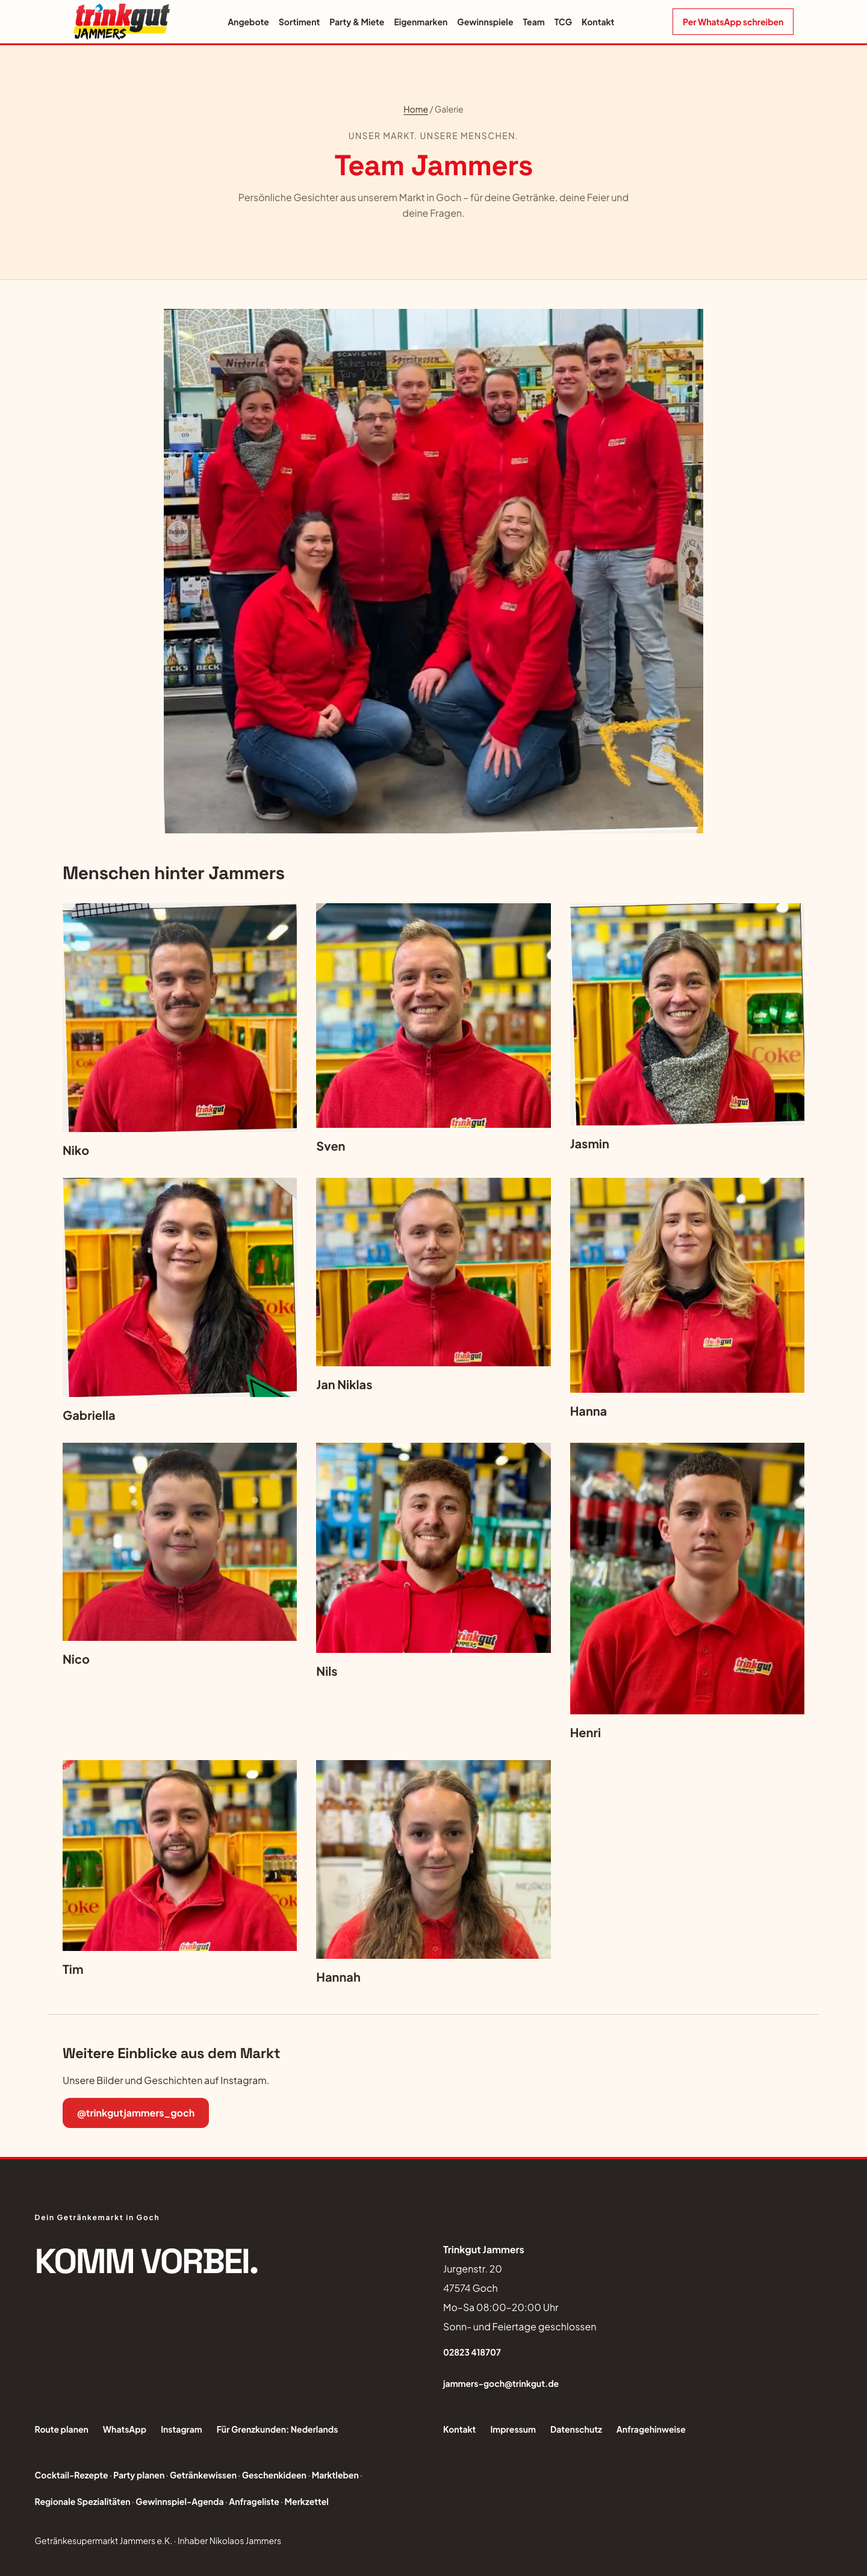
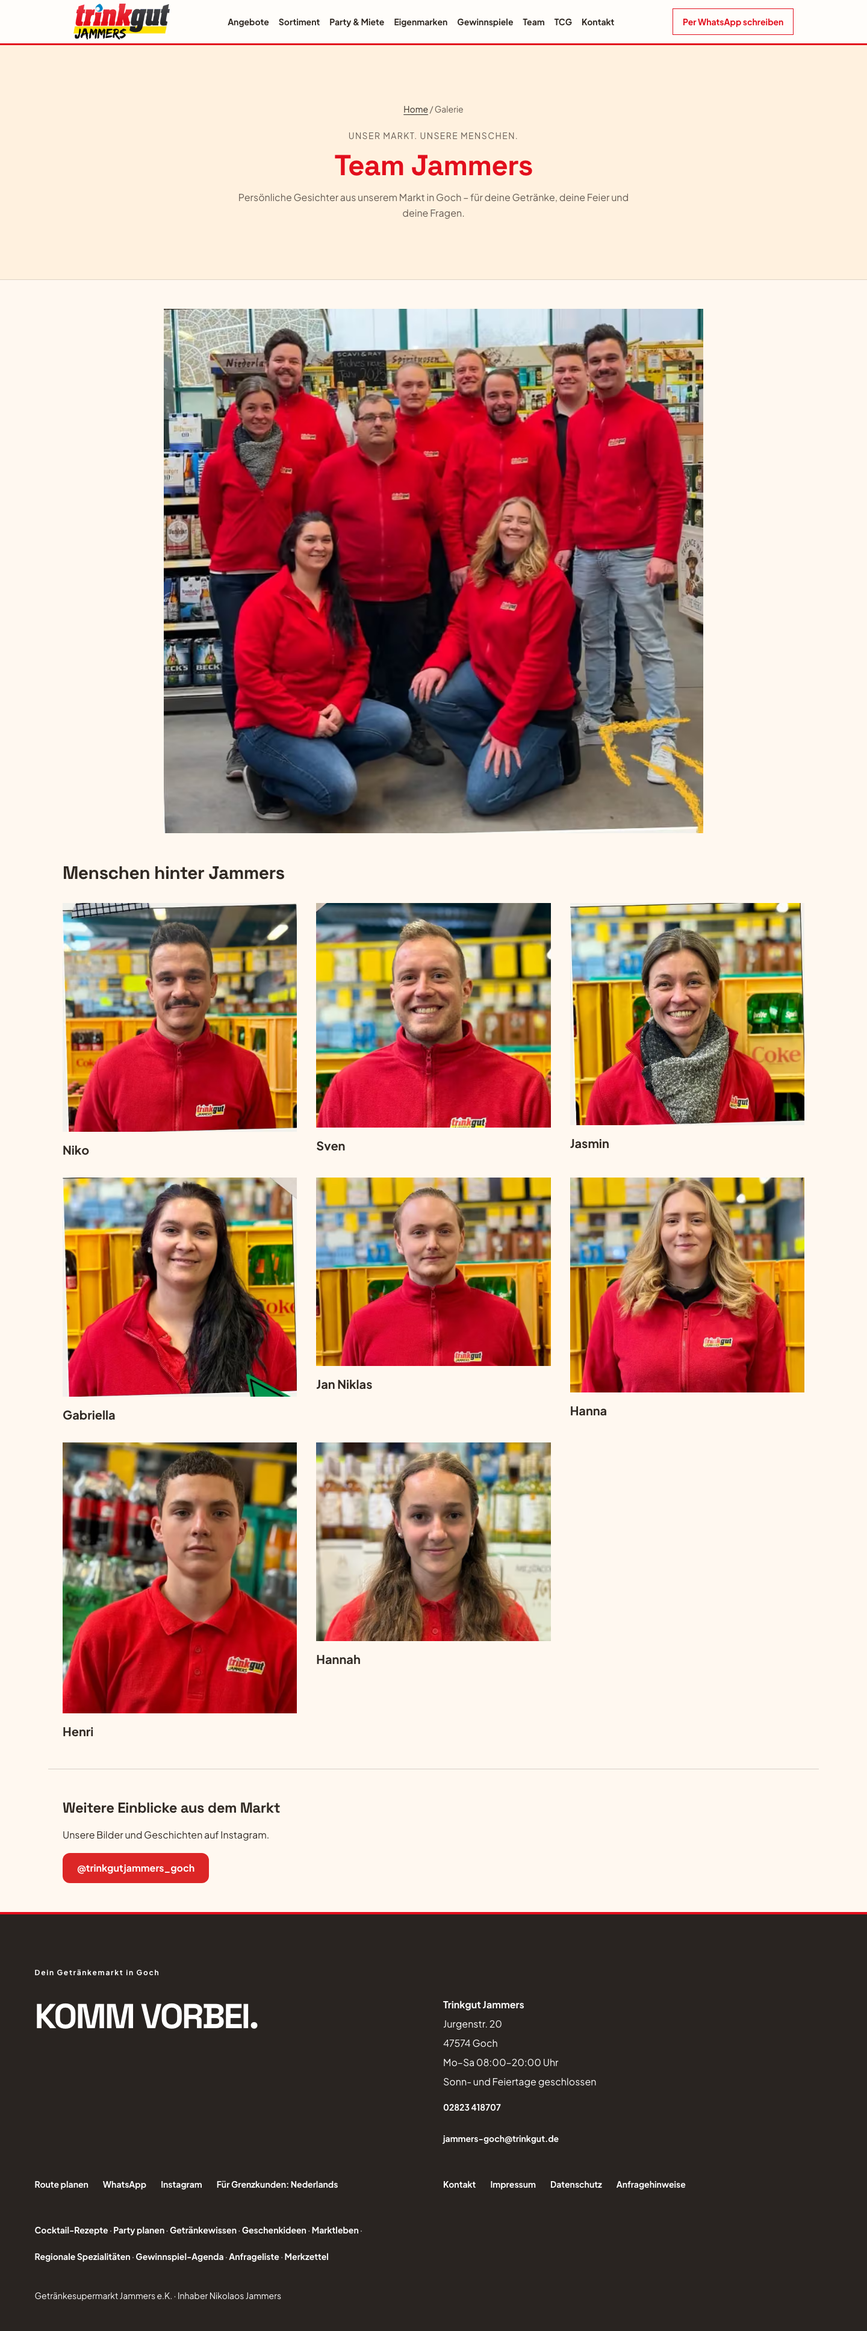
Remove departed employee profiles while keeping group photo

diff --git a/e2e/public-subpage-visual.spec.ts b/e2e/public-subpage-visual.spec.ts
@@ -80,7 +80,7 @@ async function expectNaturalEditorialImages(page: Page, path: string): Promise<v
     ? page.locator("#menschen figure img, #eigenmarken figure img")
     : path === "/galerie" ? page.locator("main figure img") : null;
   if (!images) return;
-  await expect(images).toHaveCount(path === "/" ? 15 : 12);
+  await expect(images).toHaveCount(path === "/" ? 12 : 9);
   for (const image of await images.all()) {
     const ratios = await image.evaluate((element: HTMLImageElement) => ({
       natural: element.naturalWidth / element.naturalHeight,
@@ -100,15 +100,15 @@ async function expectNaturalEditorialImages(page: Page, path: string): Promise<v
   expect(ratios.displayed).toBeCloseTo(900 / 875, 2);
 
   const team = page.locator(path === "/" ? "#menschen" : 'section[aria-labelledby="team-gallery-title"]');
-  for (const name of ["Niko", "Sven", "Jasmin", "Gabriella", "Jan Niklas", "Hanna", "Nico", "Nils", "Tim", "Henri", "Hannah"]) {
+  for (const name of ["Niko", "Sven", "Jasmin", "Gabriella", "Jan Niklas", "Hanna", "Henri", "Hannah"]) {
     const alt = name === "Niko" ? "Nikolaos Jammers im Markt" : `${name} von Trinkgut Jammers`;
     await expect(team.getByRole("img", { name: alt, exact: true })).toHaveCount(1);
     await expect(path === "/"
       ? team.getByText(name, { exact: true })
       : team.getByRole("heading", { name, exact: true })).toHaveCount(1);
   }
-  await expect(team.getByText(/\b(?:Harpe|Justin)\b/i)).toHaveCount(0);
-  await expect(team.getByRole("img", { name: /\b(?:Harpe|Justin)\b/i })).toHaveCount(0);
+  await expect(team.getByText(/\b(?:Harpe|Justin|Nils|Nico|Tim)\b/i)).toHaveCount(0);
+  await expect(team.getByRole("img", { name: /\b(?:Harpe|Justin|Nils|Nico|Tim)\b/i })).toHaveCount(0);
   for (const [name, width, height] of [["Henri", 570, 660], ["Hannah", 720, 610]] as const) {
     const portrait = team.getByRole("img", { name: `${name} von Trinkgut Jammers`, exact: true });
     await expect(portrait).toHaveAttribute("width", String(width));

diff --git a/e2e/team-names-and-planning.spec.ts b/e2e/team-names-and-planning.spec.ts
@@ -1,6 +1,13 @@
 import { test, expect } from "./test-fixtures";
+import type { Page } from "@playwright/test";
 
-const names = ["Niko", "Sven", "Jasmin", "Gabriella", "Jan Niklas", "Hanna", "Nico", "Nils", "Tim", "Henri", "Hannah"];
+const names = ["Niko", "Sven", "Jasmin", "Gabriella", "Jan Niklas", "Hanna", "Henri", "Hannah"];
+
+async function expectNoDepartedProfiles(page: Page) {
+  await expect(page.locator("main").getByText(/\b(?:Nils|Nico|Tim)\b/)).toHaveCount(0);
+  await expect(page.getByRole("img", { name: /\b(?:Nils|Nico|Tim)\b/ })).toHaveCount(0);
+  await expect(page.locator('main img[src*="team-nils"], main img[src*="team-nico"], main img[src*="team-tim"]')).toHaveCount(0);
+}
 
 for (const viewport of [{ width: 1440, height: 1000 }, { width: 390, height: 844 }]) {
   test(`portrait captions contain names only at ${viewport.width}px`, async ({ page }) => {
@@ -8,14 +15,15 @@ for (const viewport of [{ width: 1440, height: 1000 }, { width: 390, height: 844
     await page.goto("/");
     await expect(page.locator("#menschen figcaption")).toHaveText(names);
     await expect(page.locator('[data-hero="cinematic"] figcaption')).toHaveText("Sven & Niko");
+    await expectNoDepartedProfiles(page);
 
     await page.goto("/galerie");
-    await expect(page.locator('section[aria-labelledby="team-gallery-title"] figcaption')).toHaveText([
-      "Niko", "Sven", "Jasmin", "Gabriella", "Jan Niklas", "Hanna", "Nico", "Nils", "Henri", "Tim", "Hannah",
-    ]);
+    await expect(page.locator('section[aria-labelledby="team-gallery-title"] figcaption')).toHaveText(names);
+    await expectNoDepartedProfiles(page);
 
     await page.goto("/nl");
     await expect(page.locator("main figcaption")).toHaveText(["Sven & Niko", ...names]);
+    await expectNoDepartedProfiles(page);
   });
 
   test(`hero, service and footer planning links reach the interactive party planner at ${viewport.width}px`, async ({ page }) => {

diff --git a/lib/cinematic/__tests__/team-gallery.test.tsx b/lib/cinematic/__tests__/team-gallery.test.tsx
@@ -20,15 +20,17 @@ describe("source-gated team gallery", () => {
       .map(([, caption]) => caption.replace(/<[^>]+>/g, "").trim());
     expect(captions).toEqual([
       "Niko", "Sven", "Jasmin", "Gabriella", "Jan Niklas", "Hanna",
-      "Nico", "Nils", "Henri", "Tim", "Hannah",
+      "Henri", "Hannah",
     ]);
   });
 
-  test("restores all eleven names without turning group images into employees", () => {
+  test("shows the eight current portraits without profiles of departed employees", () => {
     const html = renderToStaticMarkup(<GaleriePage />);
-    for (const name of ["Niko", "Sven", "Jasmin", "Gabriella", "Jan Niklas", "Hanna", "Nico", "Nils", "Henri", "Tim", "Hannah"]) {
+    for (const name of ["Niko", "Sven", "Jasmin", "Gabriella", "Jan Niklas", "Hanna", "Henri", "Hannah"]) {
       expect(html).toContain(name);
     }
+    expect(html).not.toMatch(/\b(?:Nils|Nico|Tim)\b/);
+    expect(html).not.toMatch(/team-(?:nils|nico|tim)\b/);
     expect(html).not.toMatch(/\d+ Mitarbeiter/);
     expect(html).not.toContain("Geschäftsführer");
     expect(html).not.toContain("Marketing");
@@ -40,7 +42,7 @@ describe("source-gated team gallery", () => {
     expect(html).not.toContain("Aktuelles Portrait noch nicht veröffentlicht");
     expect(html).toContain("team-henri");
     expect(html).toContain("team-hannah");
-    expect(galleryItems.filter(({ image }) => image)).toHaveLength(11);
+    expect(galleryItems.filter(({ image }) => image)).toHaveLength(8);
     expect(html).not.toMatch(/Harpe|Justin/i);
   });
 
@@ -51,6 +53,6 @@ describe("source-gated team gallery", () => {
     expect(html).not.toContain("<button");
     expect(html).not.toContain("canva.com");
     expect(html).not.toMatch(/\bPB[A-Za-z0-9_-]{12,}\b/);
-    expect(html.match(/<figure/g)).toHaveLength(12);
+    expect(html.match(/<figure/g)).toHaveLength(9);
   });
 });

diff --git a/data/cinematic-editorial.ts b/data/cinematic-editorial.ts
@@ -12,9 +12,6 @@ import teamNiko from "@/public/images/home/cinematic/team-niko.webp";
 import teamSven from "@/public/images/home/cinematic/team-sven.webp";
 import teamJanNiklas from "@/public/images/home/cinematic/team-jan-niklas.webp";
 import teamHanna from "@/public/images/home/cinematic/team-hanna.webp";
-import teamNico from "@/public/images/home/cinematic/team-nico.webp";
-import teamNils from "@/public/images/home/cinematic/team-nils.webp";
-import teamTim from "@/public/images/home/cinematic/team-tim.webp";
 import teamHenri from "@/public/images/home/cinematic/team-henri.webp";
 import teamHannah from "@/public/images/home/cinematic/team-hannah.webp";
 
@@ -107,21 +104,6 @@ export const EDITORIAL_IMAGES = deepFreeze({
     caption: "Hanna", reviewedAt: "2026-09-30",
     releaseBasis: "user-approved-canva-pool-2026-09-30",
   },
-  nico: {
-    id: "team-nico", image: teamNico, alt: "Nico von Trinkgut Jammers",
-    caption: "Nico", reviewedAt: "2026-09-30",
-    releaseBasis: "user-approved-canva-pool-2026-09-30",
-  },
-  nils: {
-    id: "team-nils", image: teamNils, alt: "Nils von Trinkgut Jammers",
-    caption: "Nils", reviewedAt: "2026-09-30",
-    releaseBasis: "user-approved-canva-pool-2026-09-30",
-  },
-  tim: {
-    id: "team-tim", image: teamTim, alt: "Tim von Trinkgut Jammers",
-    caption: "Tim", reviewedAt: "2026-09-30",
-    releaseBasis: "user-approved-canva-pool-2026-09-30",
-  },
   henri: {
     id: "team-henri", image: teamHenri, alt: "Henri von Trinkgut Jammers",
     caption: "Henri", reviewedAt: "2026-09-30",
@@ -142,9 +124,6 @@ export const PEOPLE_STORY = deepFreeze([
   EDITORIAL_IMAGES.gabriella,
   EDITORIAL_IMAGES.janNiklas,
   EDITORIAL_IMAGES.hanna,
-  EDITORIAL_IMAGES.nico,
-  EDITORIAL_IMAGES.nils,
-  EDITORIAL_IMAGES.tim,
   EDITORIAL_IMAGES.henri,
   EDITORIAL_IMAGES.hannah,
 ] as const);

diff --git a/e2e/metadata-chrome.spec.ts b/e2e/metadata-chrome.spec.ts
@@ -225,13 +225,13 @@ async function expectPublicChrome(page: Page): Promise<void> {
 }
 
 async function expectNaturalPeopleStory(page: Page): Promise<void> {
-  await expect(page.locator("#menschen figure")).toHaveCount(12);
+  await expect(page.locator("#menschen figure")).toHaveCount(9);
   await expect(page.locator("#menschen figcaption")).toHaveText([
     "Niko", "Sven", "Jasmin", "Gabriella", "Jan Niklas", "Hanna",
-    "Nico", "Nils", "Tim", "Henri", "Hannah",
+    "Henri", "Hannah",
   ]);
   const photos = page.locator("#menschen figure img");
-  await expect(photos).toHaveCount(12);
+  await expect(photos).toHaveCount(9);
   for (const image of await photos.all()) {
     await image.scrollIntoViewIfNeeded();
     await expect.poll(() => image.evaluate((element: HTMLImageElement) => element.complete && element.naturalWidth > 0)).toBe(true);
@@ -694,7 +694,7 @@ test("[product-contract] reaches inquiry and wishlist pages and preserves indivi
   expect(runtimeIssues).toEqual([]);
 });
 
-test("[product-contract] keeps all eleven portraits and the group photo natural on desktop and mobile", async ({ page }) => {
+test("[product-contract] keeps all eight current portraits and the group photo natural on desktop and mobile", async ({ page }) => {
   const runtimeIssues = collectRuntimeIssues(page);
   for (const viewport of [{ width: 1280, height: 900 }, { width: 390, height: 844 }]) {
     await page.setViewportSize(viewport);

diff --git a/data/gallery.ts b/data/gallery.ts
@@ -19,10 +19,7 @@ export const galleryItems: readonly GalleryItem[] = [
   { id: 8, title: "Gabriella", description: "Team Jammers", category: "team", image: EDITORIAL_IMAGES.gabriella.image, alt: EDITORIAL_IMAGES.gabriella.alt },
   { id: 9, title: "Jan Niklas", description: "Team Jammers", category: "team", image: EDITORIAL_IMAGES.janNiklas.image, alt: EDITORIAL_IMAGES.janNiklas.alt },
   { id: 10, title: "Hanna", description: "Team Jammers", category: "team", image: EDITORIAL_IMAGES.hanna.image, alt: EDITORIAL_IMAGES.hanna.alt },
-  { id: 11, title: "Nico", description: "Team Jammers", category: "team", image: EDITORIAL_IMAGES.nico.image, alt: EDITORIAL_IMAGES.nico.alt },
-  { id: 12, title: "Nils", description: "Team Jammers", category: "team", image: EDITORIAL_IMAGES.nils.image, alt: EDITORIAL_IMAGES.nils.alt },
   { id: 13, title: "Henri", description: "Team Jammers", category: "team", image: EDITORIAL_IMAGES.henri.image, alt: EDITORIAL_IMAGES.henri.alt },
-  { id: 14, title: "Tim", description: "Team Jammers", category: "team", image: EDITORIAL_IMAGES.tim.image, alt: EDITORIAL_IMAGES.tim.alt },
   { id: 15, title: "Hannah", description: "Team Jammers", category: "team", image: EDITORIAL_IMAGES.hannah.image, alt: EDITORIAL_IMAGES.hannah.alt },
 ];
 

diff --git a/lib/cinematic/__tests__/composition.test.tsx b/lib/cinematic/__tests__/composition.test.tsx
@@ -210,13 +210,15 @@ describe("cinematic homepage composition", () => {
     const people = extractElement(html, "section", 'id="menschen"');
     const spotlight = extractElement(html, "section", 'id="eigenmarken"');
 
-    expect(count(people, /<figure\b/)).toBe(12);
+    expect(count(people, /<figure\b/)).toBe(9);
     const peopleCaptions = [...people.matchAll(/<figcaption\b[^>]*>([^<]*)<\/figcaption>/g)]
       .map(([, caption]) => caption);
     expect(peopleCaptions).toEqual([
       "Niko", "Sven", "Jasmin", "Gabriella", "Jan Niklas", "Hanna",
-      "Nico", "Nils", "Tim", "Henri", "Hannah",
+      "Henri", "Hannah",
     ]);
+    expect(people).not.toMatch(/\b(?:Nils|Nico|Tim)\b/);
+    expect(people).not.toMatch(/team-(?:nils|nico|tim)\b/);
 
     expect(count(spotlight, /<figure\b/)).toBe(3);
     const posterOrder = [

diff --git a/lib/cinematic/__tests__/editorial.test.ts b/lib/cinematic/__tests__/editorial.test.ts
@@ -25,12 +25,11 @@ describe("cinematic editorial contract", () => {
   });
 
   test("keeps the approved people story local, unique, and release-gated", () => {
-    expect(PEOPLE_STORY).toHaveLength(12);
-    expect(new Set(PEOPLE_STORY.map(({ id }) => id)).size).toBe(12);
+    expect(PEOPLE_STORY).toHaveLength(9);
+    expect(new Set(PEOPLE_STORY.map(({ id }) => id)).size).toBe(9);
     expect(PEOPLE_STORY.map(({ id }) => id)).toEqual([
       "team-group", "team-niko", "team-sven", "team-jasmin",
-      "team-gabriella", "team-jan-niklas", "team-hanna", "team-nico",
-      "team-nils", "team-tim", "team-henri", "team-hannah",
+      "team-gabriella", "team-jan-niklas", "team-hanna", "team-henri", "team-hannah",
     ]);
     for (const item of PEOPLE_STORY) {
       expect(item.alt.length).toBeGreaterThan(12);

diff --git a/docs/audits/2026-09-30-team-roster-update.md b/docs/audits/2026-09-30-team-roster-update.md
@@ -1,0 +1,20 @@
+# Employee-profile update — 30 September 2026
+
+This update follows the operator's confirmation that Nils, Nico and Tim no longer work at the market. Their individual employee records, imports and active gallery/story entries were removed. It supersedes the eleven-portrait roster described in the earlier audit on this date.
+
+The eight remaining portraits are Niko, Sven, Jasmin, Gabriella, Jan Niklas, Hanna, Henri and Hannah. Captions remain names only. Niko was not confused with Nico. The hero photo and group photo remain unchanged; the operator explicitly answered “Gruppenfoto behalten”. No claim is made about individual participants in the group photo.
+
+The shared data change applies to `/`, `/galerie` and `/nl`. A read-only audit found no additional active named employee representations or legacy team routes. Source files, Canva originals, provenance records and archived image exports were preserved; removal of profiles is not deletion of the source assets or their public file URLs.
+
+## Verification
+
+- Red: six assertions in three focused unit-test files failed against the old eleven-portrait roster for the expected reason.
+- Green: 48 unit-test files, 497 tests passed; TypeScript passed.
+- Production build passed, including asset/source checks and 230 generated pages.
+- Lint passed with zero errors and 20 existing warnings.
+- Nine targeted browser tests passed against the rebuilt production preview: desktop/mobile names and absence of departed profiles on all three pages, natural photo layout, accessibility/runtime checks on homepage and gallery, and the existing party-planning links.
+- Manual HTML requests to localhost:3000 returned HTTP 200 for all three affected routes, retained all eight names and the group photo, and contained none of the three departed profiles or their individual image references.
+- Refreshed desktop/mobile gallery screenshots were visually inspected. An independent read-only code review found no issues.
+- `git diff --check` passed.
+
+Local production previews remain available on ports 3000 and 3103. This verification does not establish deployment to an external production domain. The rental-cart and NL-flyer workflows were not changed by this task.
